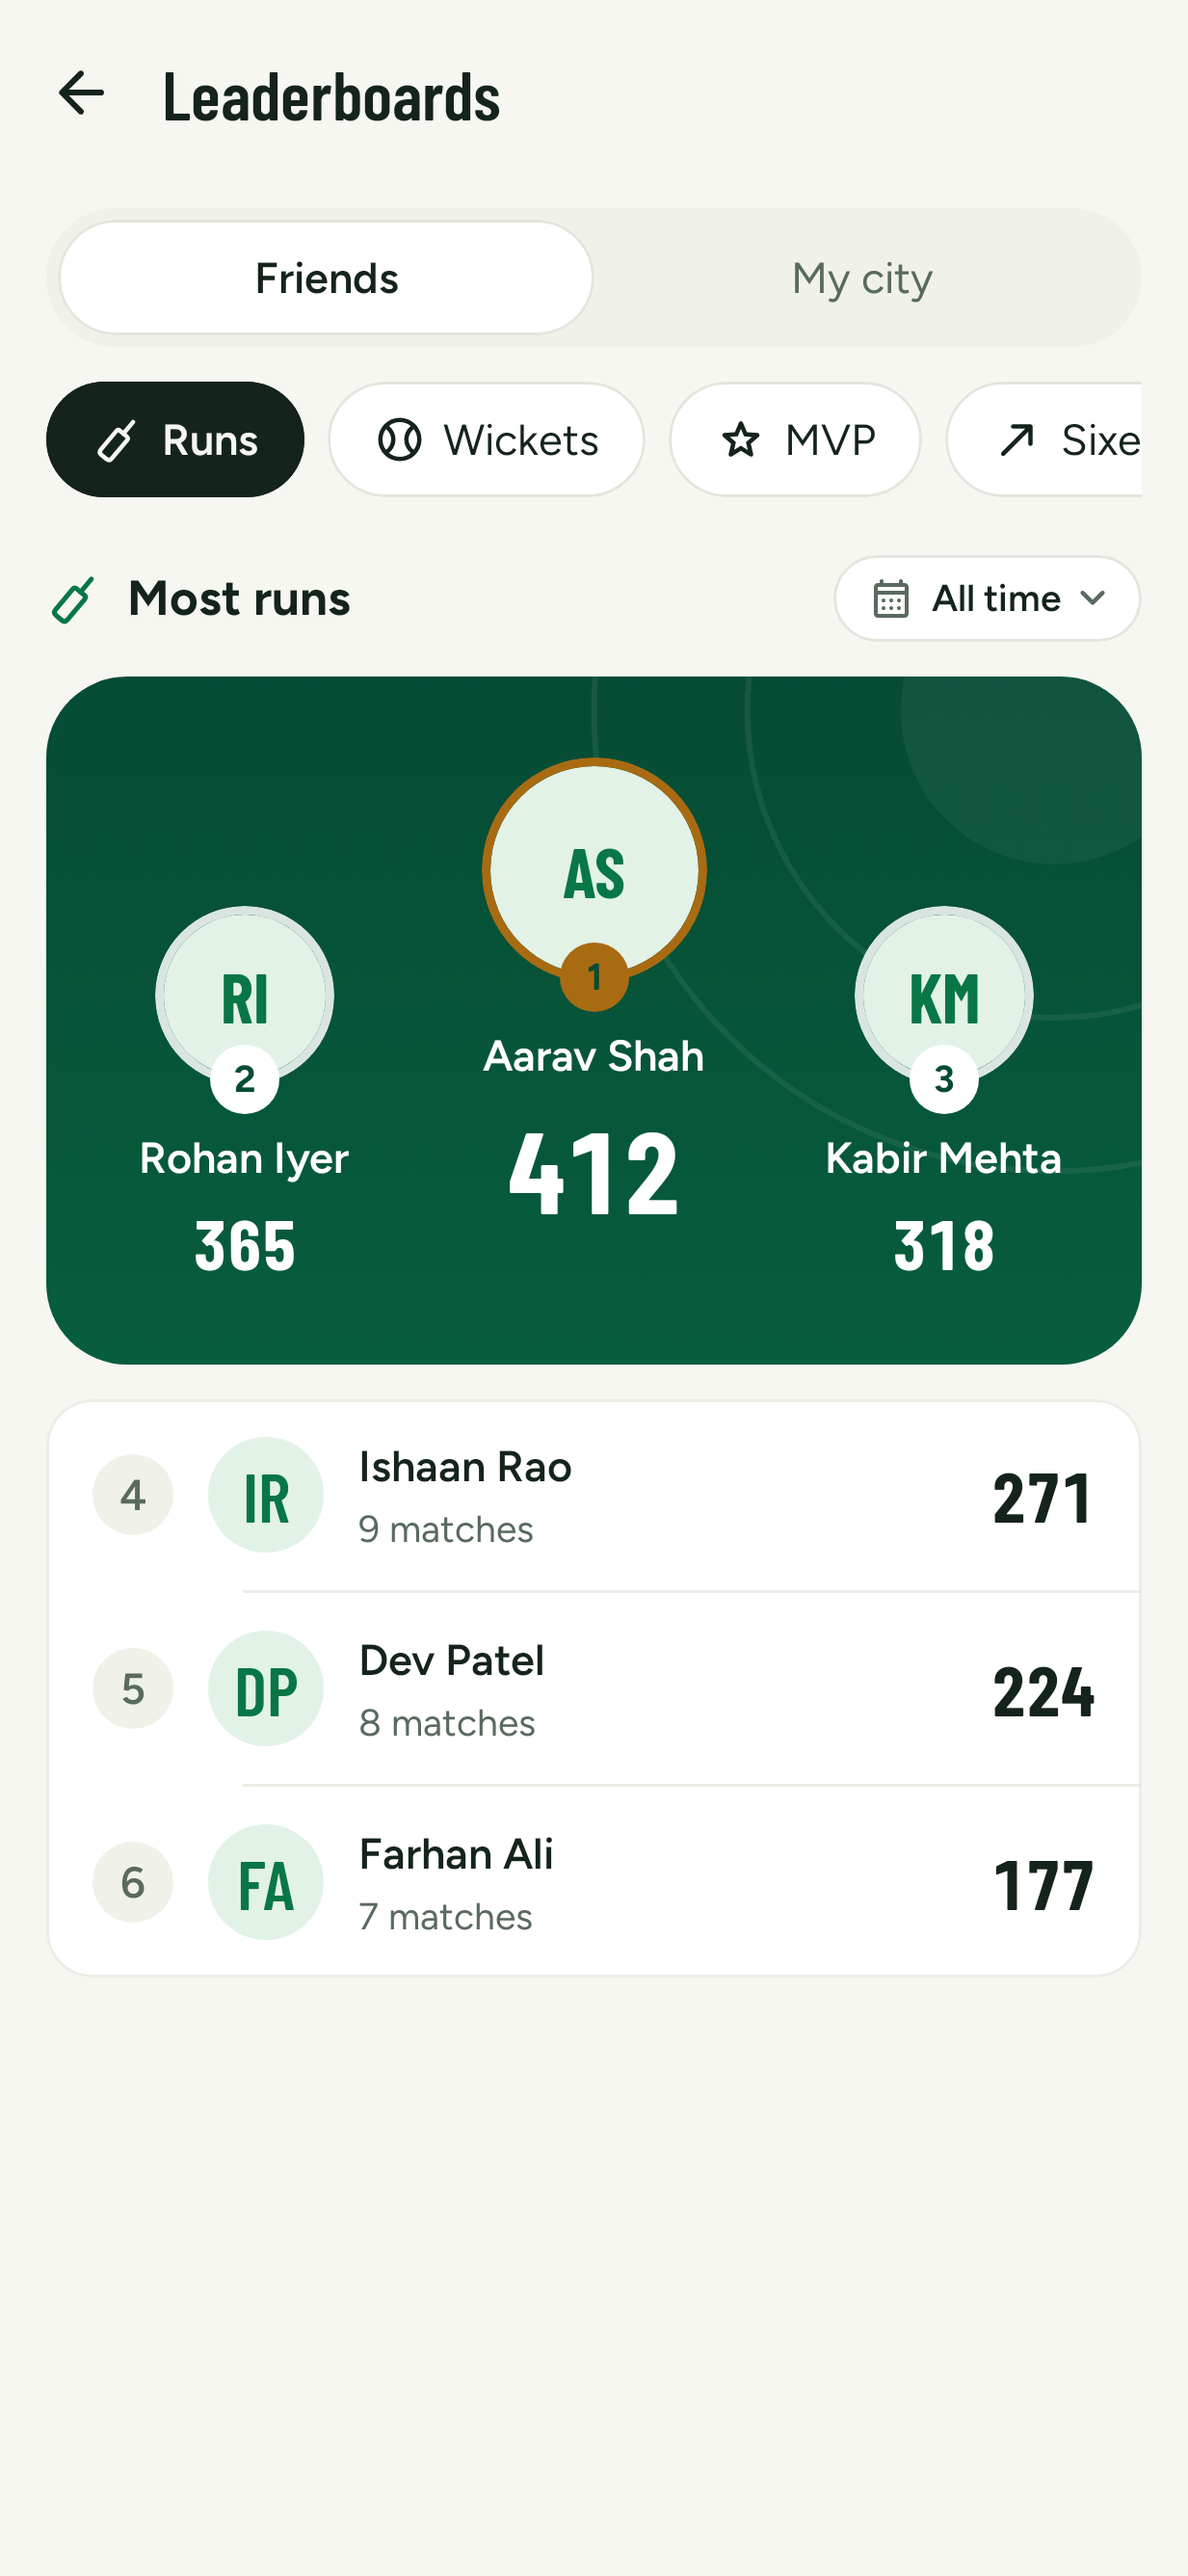
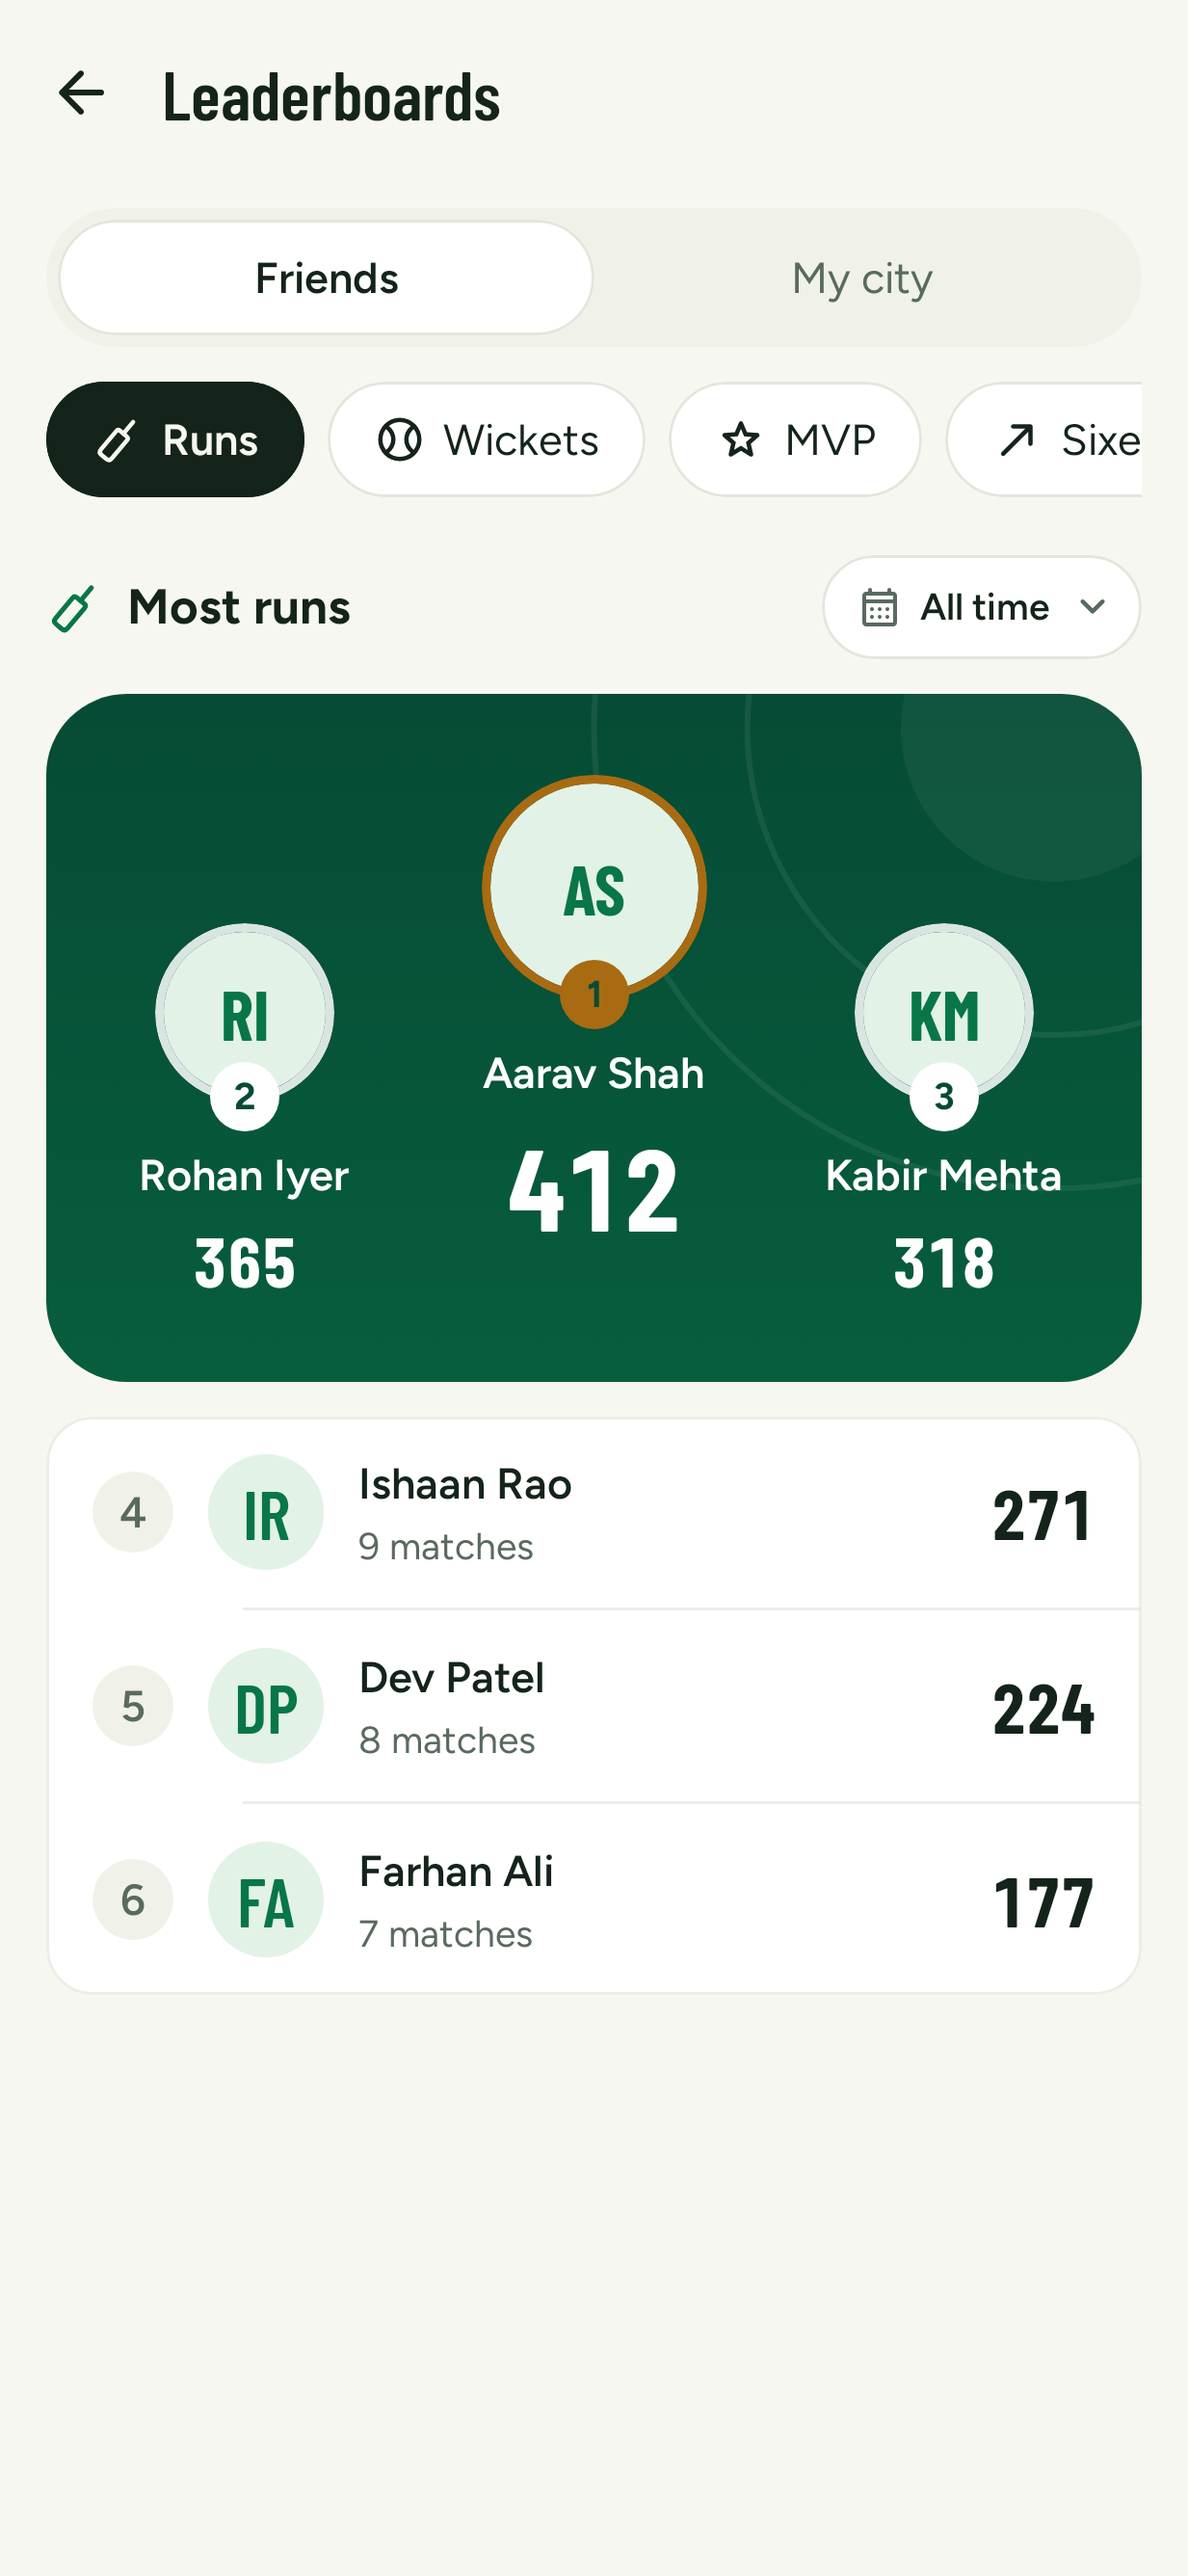
Pick the stats season and match length from pills, not chip rows
The season and match-length chips wrapped onto three rows above every
career. They are now two pills ("All time ▾", "All lengths ▾") that open a
sheet listing the choices with a tick by the current one; the leaderboard's
season uses the same PickerPill and PickerSheet. The Stats heading is
dropped on your own profile, where the tab already says Stats.

diff --git a/app/shared/src/commonMain/kotlin/com/harsh/desicrics/ui/stats/StatsUi.kt b/app/shared/src/commonMain/kotlin/com/harsh/desicrics/ui/stats/StatsUi.kt
@@ -1,10 +1,11 @@
 package com.harsh.desicrics.ui.stats
+import com.harsh.desicrics.designsystem.component.PickerSheet
+import com.harsh.desicrics.designsystem.component.PickerPill
 import androidx.compose.foundation.layout.Box
 import androidx.compose.material3.CircularProgressIndicator
 import org.jetbrains.compose.resources.DrawableResource
 import com.harsh.desicrics.model.LeaderboardRow
 import com.harsh.desicrics.designsystem.component.heroBackground
-import com.harsh.desicrics.designsystem.component.ChoiceSheet
 import com.harsh.desicrics.designsystem.component.FilterRow
 import com.harsh.desicrics.designsystem.component.ErrorBanner
 import com.harsh.desicrics.designsystem.component.ErrorState
@@ -109,23 +110,52 @@ fun mvpText(tenths: Int): String = "${tenths / 10}.${kotlin.math.abs(tenths % 10
 @OptIn(ExperimentalTime::class)
 private fun thisYear(): Int = Instant.fromEpochMilliseconds(nowMillis()).toLocalDateTime(TimeZone.currentSystemDefault()).year
 
-/** Season and match-length chips. Seasons offered: all time, this year and the last two. */
+/** Season and match length as two picker pills. Seasons offered: all time, this year and the last two. */
 @Composable
 fun StatsFilters(filter: StatsFilter, onFilter: (StatsFilter) -> Unit) {
     val year = thisYear()
+    val seasons = listOf<Int?>(null, year, year - 1, year - 2)
     val all = stringResource(Res.string.stats_season_all)
-    ChoiceChips(listOf<Int?>(null, year, year - 1, year - 2), selected = filter.season, label = { it?.toString() ?: all }, onSelect = { onFilter(filter.copy(season = it)) })
-    ChoiceChips(FormatFilter.entries, selected = filter.format, label = { stringResource(it.label) }, onSelect = { onFilter(filter.copy(format = it)) })
+    val seasonLabels = seasons.map { it?.toString() ?: all }
+    val formatLabels = FormatFilter.entries.map { stringResource(it.label) }
+    var picking by rememberSaveable { mutableStateOf<String?>(null) }
+    Row(horizontalArrangement = Arrangement.spacedBy(DesiTheme.space.s2)) {
+        PickerPill(seasonLabels[seasons.indexOf(filter.season).coerceAtLeast(0)], { picking = "season" }, icon = DesiIcons.Calendar)
+        PickerPill(formatLabels[filter.format.ordinal], { picking = "format" }, icon = DesiIcons.Clock)
+    }
+    when (picking) {
+        "season" -> PickerSheet(
+            stringResource(Res.string.leaderboard_season),
+            seasonLabels,
+            selected = seasons.indexOf(filter.season),
+            onSelect = { onFilter(filter.copy(season = seasons[it])); picking = null },
+            onDismiss = { picking = null },
+        )
+        "format" -> PickerSheet(
+            stringResource(Res.string.stats_match_length),
+            formatLabels,
+            selected = filter.format.ordinal,
+            onSelect = { onFilter(filter.copy(format = FormatFilter.entries[it])); picking = null },
+            onDismiss = { picking = null },
+        )
+    }
 }
 
 /** A player's career with filters: summary, batting, bowling, fielding, form, zones and badges. */
 @Composable
-fun CareerSection(profileId: String, onCompare: (() -> Unit)? = null, name: String = "", onOpenMatch: ((String) -> Unit)? = null) {
+fun CareerSection(
+    profileId: String,
+    onCompare: (() -> Unit)? = null,
+    name: String = "",
+    onOpenMatch: ((String) -> Unit)? = null,
+    /** False where a tab already says Stats. */
+    heading: Boolean = true,
+) {
     val viewModel: CareerViewModel = koinViewModel(key = "career-$profileId") { parametersOf(profileId) }
     val state by viewModel.state.collectAsStateWithLifecycle()
     var sharing by remember { mutableStateOf(false) }
     Column(verticalArrangement = Arrangement.spacedBy(DesiTheme.space.s4)) {
-        SectionHeader(stringResource(Res.string.profile_tab_stats), icon = DesiIcons.Leaderboard)
+        if (heading) SectionHeader(stringResource(Res.string.profile_tab_stats), icon = DesiIcons.Leaderboard)
         StatsFilters(state.filter, viewModel::setFilter)
         val stats = state.stats
         when {
@@ -420,9 +450,10 @@ fun LeaderboardContent(
     val seasons = listOf<Int?>(null, year, year - 1, year - 2)
     val allTime = stringResource(Res.string.stats_season_all)
     if (pickingSeason) {
-        ChoiceSheet(
+        PickerSheet(
             stringResource(Res.string.leaderboard_season),
             seasons.map { it?.toString() ?: allTime },
+            selected = seasons.indexOf(state.season),
             onSelect = { index -> onUpdate { it.copy(season = seasons[index]) }; pickingSeason = false },
             onDismiss = { pickingSeason = false },
         )
@@ -458,7 +489,7 @@ fun LeaderboardContent(
             item {
                 Row(Modifier.padding(top = space.s2), verticalAlignment = Alignment.CenterVertically) {
                     SectionHeader(stringResource(state.metric.title), Modifier.weight(1f), icon = state.metric.icon)
-                    if (!forTournament) SeasonPill(state.season?.toString() ?: allTime) { pickingSeason = true }
+                    if (!forTournament) PickerPill(state.season?.toString() ?: allTime, { pickingSeason = true }, icon = DesiIcons.Calendar)
                 }
             }
             val value: (LeaderboardRow) -> String = { if (state.metric == LeaderboardMetric.MVP) mvpText(it.value) else "${it.value}" }
@@ -499,22 +530,6 @@ fun LeaderboardContent(
                 }
             }
         }
-    }
-}
-
-/** The season, as a small pill that opens a picker. */
-@Composable
-private fun SeasonPill(text: String, onClick: () -> Unit) {
-    val colors = DesiTheme.colors
-    Row(
-        Modifier.clip(DesiTheme.radius.full).background(colors.surface).border(1.dp, colors.line, DesiTheme.radius.full)
-            .clickable(role = Role.Button, onClick = onClick).padding(start = DesiTheme.space.s3, end = DesiTheme.space.s2, top = 6.dp, bottom = 6.dp),
-        verticalAlignment = Alignment.CenterVertically,
-        horizontalArrangement = Arrangement.spacedBy(2.dp),
-    ) {
-        Icon(painterResource(DesiIcons.Calendar), null, tint = colors.muted, modifier = Modifier.size(16.dp))
-        Text(text, style = DesiTheme.type.caption.copy(fontWeight = FontWeight.SemiBold), color = colors.ink, modifier = Modifier.padding(start = 4.dp))
-        Icon(painterResource(DesiIcons.ExpandMore), null, tint = colors.muted, modifier = Modifier.size(18.dp))
     }
 }
 

diff --git a/app/designsystem/src/commonMain/kotlin/com/harsh/desicrics/designsystem/component/Detail.kt b/app/designsystem/src/commonMain/kotlin/com/harsh/desicrics/designsystem/component/Detail.kt
@@ -510,3 +510,49 @@ fun <T> FilterRow(
         }
     }
 }
+
+/**
+ * The current value of a setting as a small pill with a ▾, for filters that don't need to be on screen
+ * all the time (season, match length). Tapping opens a [PickerSheet].
+ */
+@Composable
+fun PickerPill(text: String, onClick: () -> Unit, modifier: Modifier = Modifier, icon: DrawableResource? = null) {
+    val colors = DesiTheme.colors
+    Row(
+        modifier
+            .heightIn(min = 36.dp)
+            .clip(DesiTheme.radius.full)
+            .background(colors.surface)
+            .border(1.dp, colors.line, DesiTheme.radius.full)
+            .clickable(role = Role.DropdownList, onClick = onClick)
+            .padding(start = DesiTheme.space.s3, end = DesiTheme.space.s2),
+        verticalAlignment = Alignment.CenterVertically,
+        horizontalArrangement = Arrangement.spacedBy(6.dp),
+    ) {
+        if (icon != null) Icon(painterResource(icon), null, tint = colors.muted, modifier = Modifier.size(16.dp))
+        Text(text, style = DesiTheme.type.caption.copy(fontWeight = FontWeight.SemiBold), color = colors.ink, maxLines = 1)
+        Icon(painterResource(DesiIcons.ExpandMore), null, tint = colors.muted, modifier = Modifier.size(18.dp))
+    }
+}
+
+/** A bottom sheet listing the choices for a [PickerPill], with a tick by the current one. */
+@Composable
+fun PickerSheet(title: String, options: List<String>, selected: Int, onSelect: (Int) -> Unit, onDismiss: () -> Unit) {
+    val colors = DesiTheme.colors
+    DesiSheet(title, onDismiss) {
+        ListCard {
+            options.forEachIndexed { index, option ->
+                val isSelected = index == selected
+                ListRow(
+                    title = option,
+                    titleColor = if (isSelected) colors.brand else colors.ink,
+                    trailing = {
+                        if (isSelected) Icon(painterResource(DesiIcons.CheckCircle), null, tint = colors.brand, modifier = Modifier.size(DesiTheme.size.iconSmall))
+                    },
+                    divider = index > 0,
+                    onClick = { onSelect(index) },
+                )
+            }
+        }
+    }
+}

diff --git a/server/src/main/kotlin/com/harsh/desicrics/seed/DemoSeed.kt b/server/src/main/kotlin/com/harsh/desicrics/seed/DemoSeed.kt
@@ -485,7 +485,7 @@ private class DemoSeed(private val database: Database, private val forUids: List
             roll < 0.065 -> ball.copy(
                 extra = if (rng.nextDouble() < 0.7) ExtraType.LEG_BYE else ExtraType.BYE, extraRuns = rng.weighted(1 to 8.0, 2 to 1.0, 4 to 1.0),
             )
-            rng.nextDouble() < (0.055 - 0.04 * edge + 0.03 * death).coerceIn(0.015, 0.14) -> ball.copy(wicket = wicket(innings, striker, nonStriker, bowler))
+            rng.nextDouble() < (0.08 - 0.07 * edge + 0.03 * death).coerceIn(0.03, 0.18) -> ball.copy(wicket = wicket(innings, striker, nonStriker, bowler))
             else -> {
                 val runs = rng.weighted(
                     0 to 0.36 - 0.12 * edge - 0.08 * death, 1 to 0.33, 2 to 0.09, 3 to 0.012,
@@ -590,8 +590,8 @@ private class DemoSeed(private val database: Database, private val forUids: List
         val match = details.match
         val result = match.result?.let { result ->
             result.winner?.let { side ->
-                val unit = if (result.marginUnit == MarginUnit.WICKETS) "wkts" else "runs"
-                "${match.team(side).name} won by ${result.margin} $unit"
+                val unit = if (result.marginUnit == MarginUnit.WICKETS) "wkt" else "run"
+                "${match.team(side).name} won by ${result.margin} $unit${if (result.margin == 1) "" else "s"}"
             } ?: "Tied"
         } ?: "in progress"
         println("  $label: ${match.scoreSummary} - $result")

diff --git a/app/shared/src/commonMain/kotlin/com/harsh/desicrics/ui/profile/ProfileScreen.kt b/app/shared/src/commonMain/kotlin/com/harsh/desicrics/ui/profile/ProfileScreen.kt
@@ -97,7 +97,7 @@ fun ProfileScreen(
         onOpenTeam = onOpenTeam,
         onClaimSuggested = viewModel::claim,
         onSettings = { sheet = it },
-        stats = { CareerSection(profile.uid, onCompare = onCompare, name = profile.name, onOpenMatch = onOpenMatch) },
+        stats = { CareerSection(profile.uid, onCompare = onCompare, name = profile.name, onOpenMatch = onOpenMatch, heading = false) },
         onRetry = viewModel::refresh,
     )
     when (sheet) {

diff --git a/docs/design-system.md b/docs/design-system.md
@@ -284,6 +284,7 @@ All in `designsystem/component/`. Light and dark previews are in `Catalogue.kt`.
 | `EmptyState` | `Detail.kt` | Icon tile, title, body and an optional action, on a card |
 | `ErrorState` | `Feedback.kt` | When content couldn't load: an amber mark (cloud for connection trouble, a crossed-out search for something that doesn't exist), a title, a body and Try again, plus an optional way out. Full screen, or `compact` on a card inside a section |
 | `ErrorBanner` | `Feedback.kt` | A problem that doesn't replace the page (a failed save, a refused action): icon, optional title, message and an optional action. Red by default; `warning` makes it amber for states that aren't failures, like being offline |
+| `PickerPill` / `PickerSheet` | `Detail.kt` | A setting's current value as a small pill with ▾ (season, match length) that opens a sheet listing the choices with a tick by the current one. Use it for filters that don't need all their options on screen |
 | `FilterRow` | `Detail.kt` | Filters on one sideways-scrolling line, each with an optional icon; the selected one filled in `ink`. Use it so a list's filters never wrap onto several rows |
 | `DesiNavigationBar` | `Navigation.kt` | Bottom tabs: outlined icons, filled and green on a soft pill when selected |
 

diff --git a/README.md b/README.md
@@ -44,6 +44,12 @@ Flyway owns the schema. On startup the server applies any pending migrations fro
 
 To wipe local data: `docker compose down -v`.
 
+To fill it with a demo season of Pune club cricket (teams, players, a finished league, a knockout cup with a
+live semi-final, friendlies, fixtures to come, "looking for" posts and a directory):
+`./gradlew :server:seedDemo --args="--for <your uid>"`. The `--for` part is optional; it puts your signed-in
+account in Kothrud Kings and has you follow a few teams and players. Every ball goes through `MatchService`,
+so stats, tables and rankings are real. It runs once per database.
+
 ### Firebase setup
 
 Firebase config files are gitignored (this is a public repo), so each developer adds their own.
